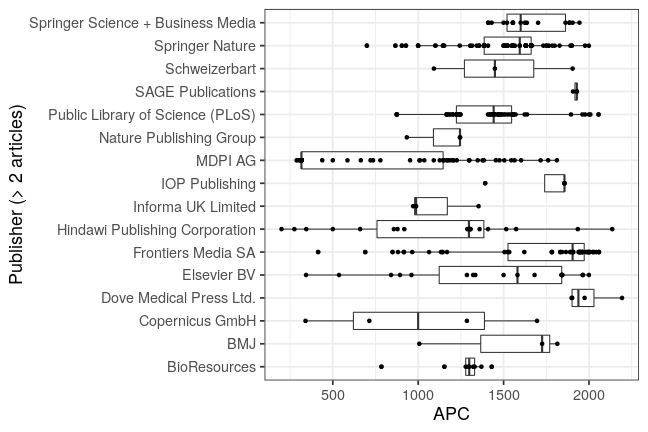
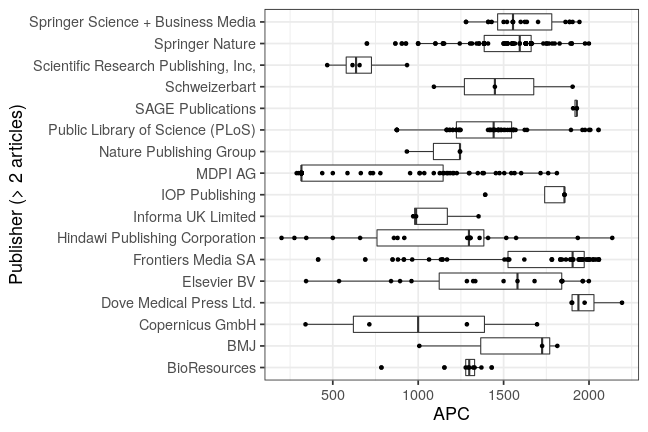
update: dresden apc data 2018

diff --git a/_posts/2019-07-30-dresden.md b/_posts/2019-07-30-dresden.md
@@ -13,7 +13,7 @@ comments: true
 
 The [Technische Universität Dresden](https://tu-dresden.de/?set_language=en) has provided its APC expenditures for the 2018 period.
 
-The [Saxon State and University Library Dresden (SLUB)](https://www.slub-dresden.de/en/homepage/) is in charge of the [Open Access Publication Funds of the TU Dresden](https://www.slub-dresden.de/service/open-science-service/open-access/publikationsfonds/), which receives support by the Deutsche Forschungsgemeinschaft (DFG) under its [Open-Access Publishing Programme](http://www.dfg.de/en/research_funding/programmes/infrastructure/lis/funding_opportunities/open_access/).
+The [Saxon State and University Library Dresden (SLUB)](https://www.slub-dresden.de/en/homepage/) is in charge of the [Open Access Publication Funds of the TU Dresden](https://www.slub-dresden.de/service/open-science-service/open-access/publikationsfonds/), which had received support by the Deutsche Forschungsgemeinschaft (DFG) under its [Open-Access Publishing Programme](http://www.dfg.de/en/research_funding/programmes/infrastructure/lis/funding_opportunities/open_access/) until 2017.
 
 Contact person is [Michael Wohlgemuth](mailto:openaccess@slub-dresden.de).
 
@@ -21,32 +21,33 @@ Contact person is [Michael Wohlgemuth](mailto:openaccess@slub-dresden.de).
 
 
 
-The new dataset covers publication fees for 144 articles. Total expenditure amounts to 164 073€ and the average fee is 1 139€.
+The new dataset covers publication fees for 145 articles. Total expenditure amounts to 164 406€ and the average fee is 1 134€.
 
 The following table shows the payments the SLUB has made to publishers in 2018.
 
 
-|                                                  | Articles| Fees paid in EURO| Mean Fee paid|
-|:-------------------------------------------------|--------:|-----------------:|-------------:|
-|MDPI AG                                           |       56|             23119|           413|
-|Springer Nature                                   |       35|             51249|          1464|
-|Frontiers Media SA                                |       18|             33023|          1835|
-|Elsevier BV                                       |       10|             17311|          1731|
-|Public Library of Science (PLoS)                  |        7|             10528|          1504|
-|IOP Publishing                                    |        3|              5105|          1702|
-|BioResources                                      |        2|              2572|          1286|
-|JMIR Publications Inc.                            |        2|              3724|          1862|
-|American Society of Hematology                    |        1|              1930|          1930|
-|BMJ                                               |        1|              1815|          1815|
-|British Editorial Society of Bone & Joint Surgery |        1|              1580|          1580|
-|Copernicus GmbH                                   |        1|               340|           340|
-|Dove Medical Press Ltd.                           |        1|              1902|          1902|
-|Ferrata Storti Foundation (Haematologica)         |        1|              1904|          1904|
-|Ovid Technologies (Wolters Kluwer Health)         |        1|              1527|          1527|
-|Oxford University Press (OUP)                     |        1|              1997|          1997|
-|SAGE Publications                                 |        1|              1929|          1929|
-|Schweizerbart                                     |        1|              1092|          1092|
-|The Company of Biologists                         |        1|              1428|          1428|
+|                                                          | Articles| Fees paid in EURO| Mean Fee paid|
+|:---------------------------------------------------------|--------:|-----------------:|-------------:|
+|MDPI AG                                                   |       56|             23119|           413|
+|Springer Nature                                           |       35|             51249|          1464|
+|Frontiers Media SA                                        |       18|             33023|          1835|
+|Elsevier BV                                               |       10|             17311|          1731|
+|Public Library of Science (PLoS)                          |        7|             10528|          1504|
+|IOP Publishing                                            |        3|              5105|          1702|
+|BioResources                                              |        2|              2572|          1286|
+|JMIR Publications Inc.                                    |        2|              3724|          1862|
+|Academic Conferences and Publishing International Limited |        1|               333|           333|
+|American Society of Hematology                            |        1|              1930|          1930|
+|BMJ                                                       |        1|              1815|          1815|
+|British Editorial Society of Bone & Joint Surgery         |        1|              1580|          1580|
+|Copernicus GmbH                                           |        1|               340|           340|
+|Dove Medical Press Ltd.                                   |        1|              1902|          1902|
+|Ferrata Storti Foundation (Haematologica)                 |        1|              1904|          1904|
+|Ovid Technologies (Wolters Kluwer Health)                 |        1|              1527|          1527|
+|Oxford University Press (OUP)                             |        1|              1997|          1997|
+|SAGE Publications                                         |        1|              1929|          1929|
+|Schweizerbart                                             |        1|              1092|          1092|
+|The Company of Biologists                                 |        1|              1428|          1428|
 
 ## Overview
 
